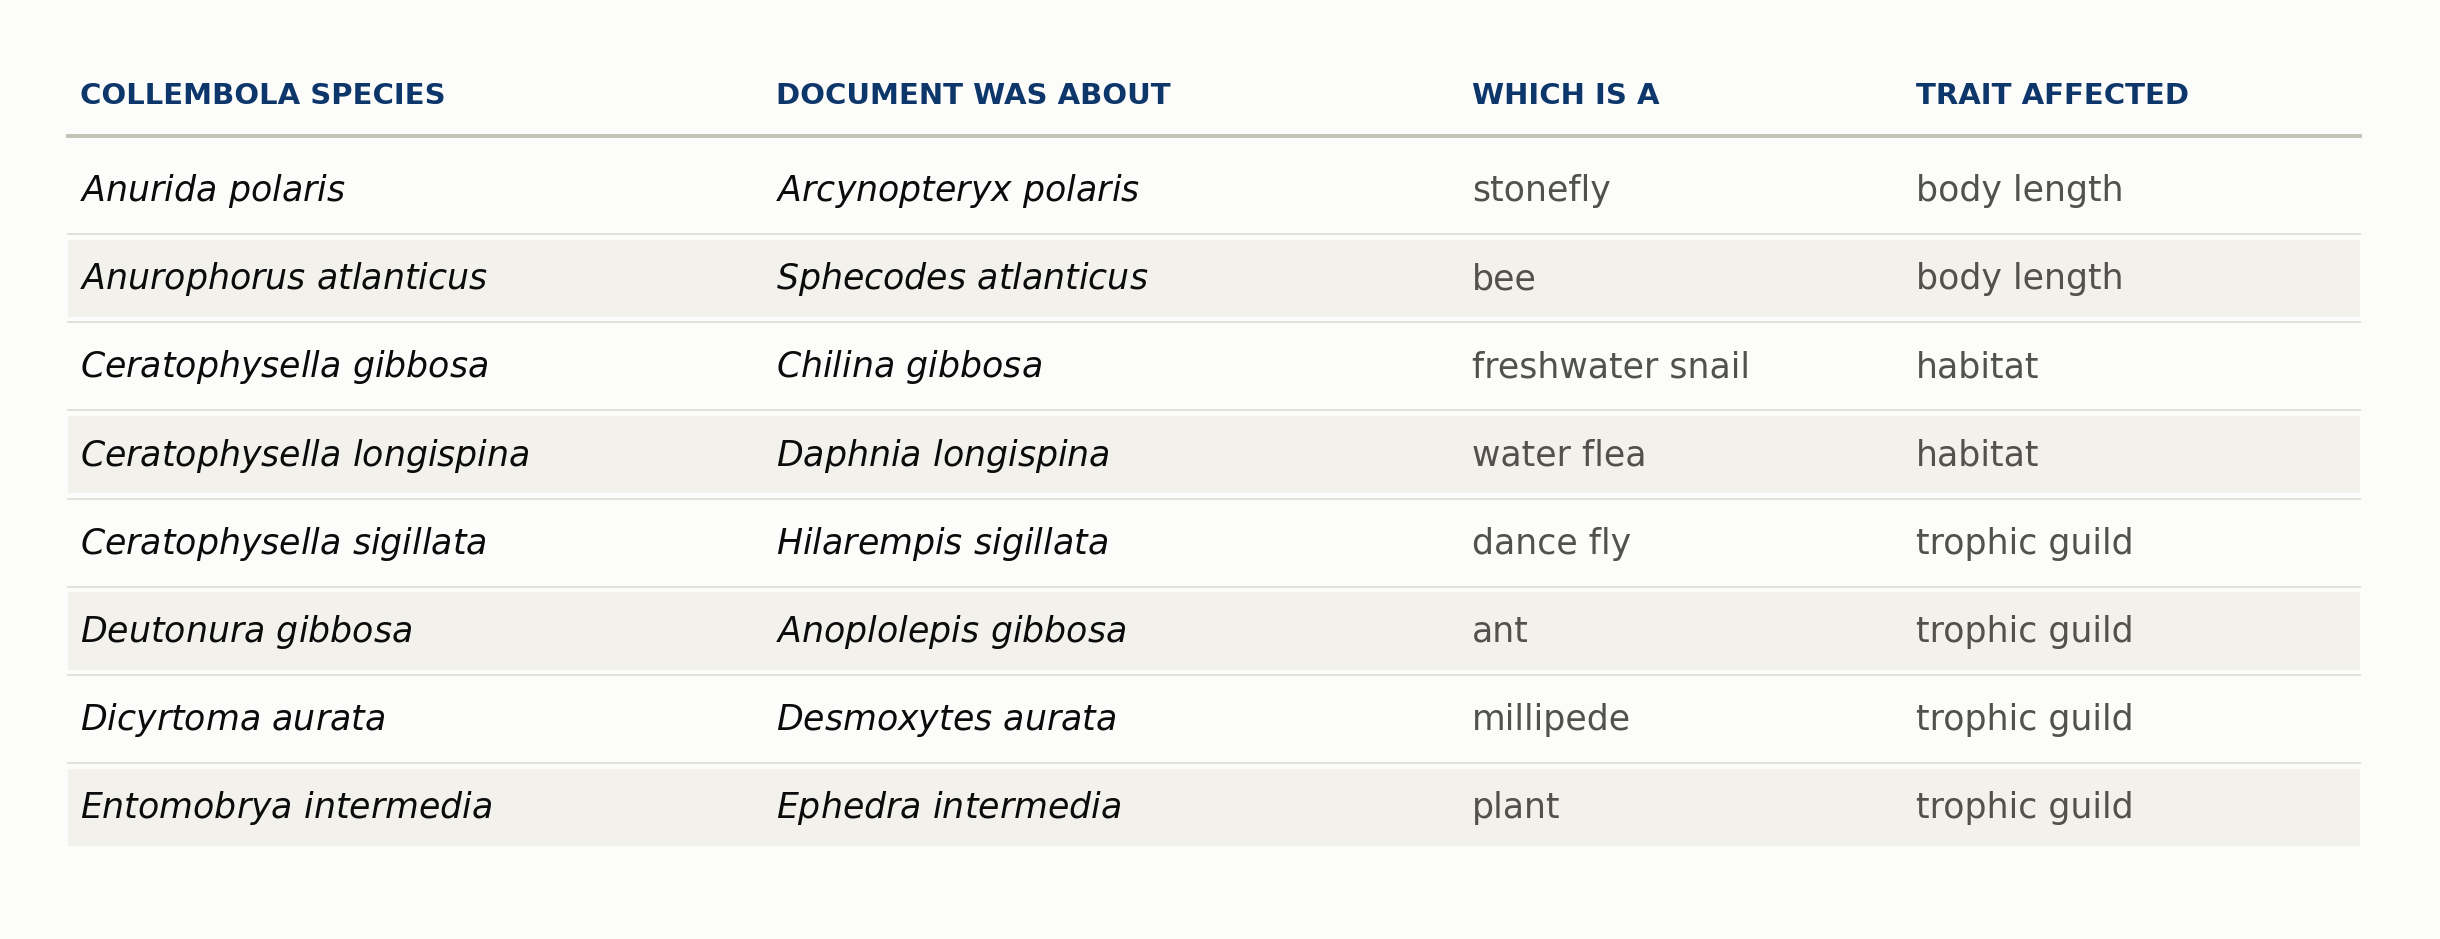
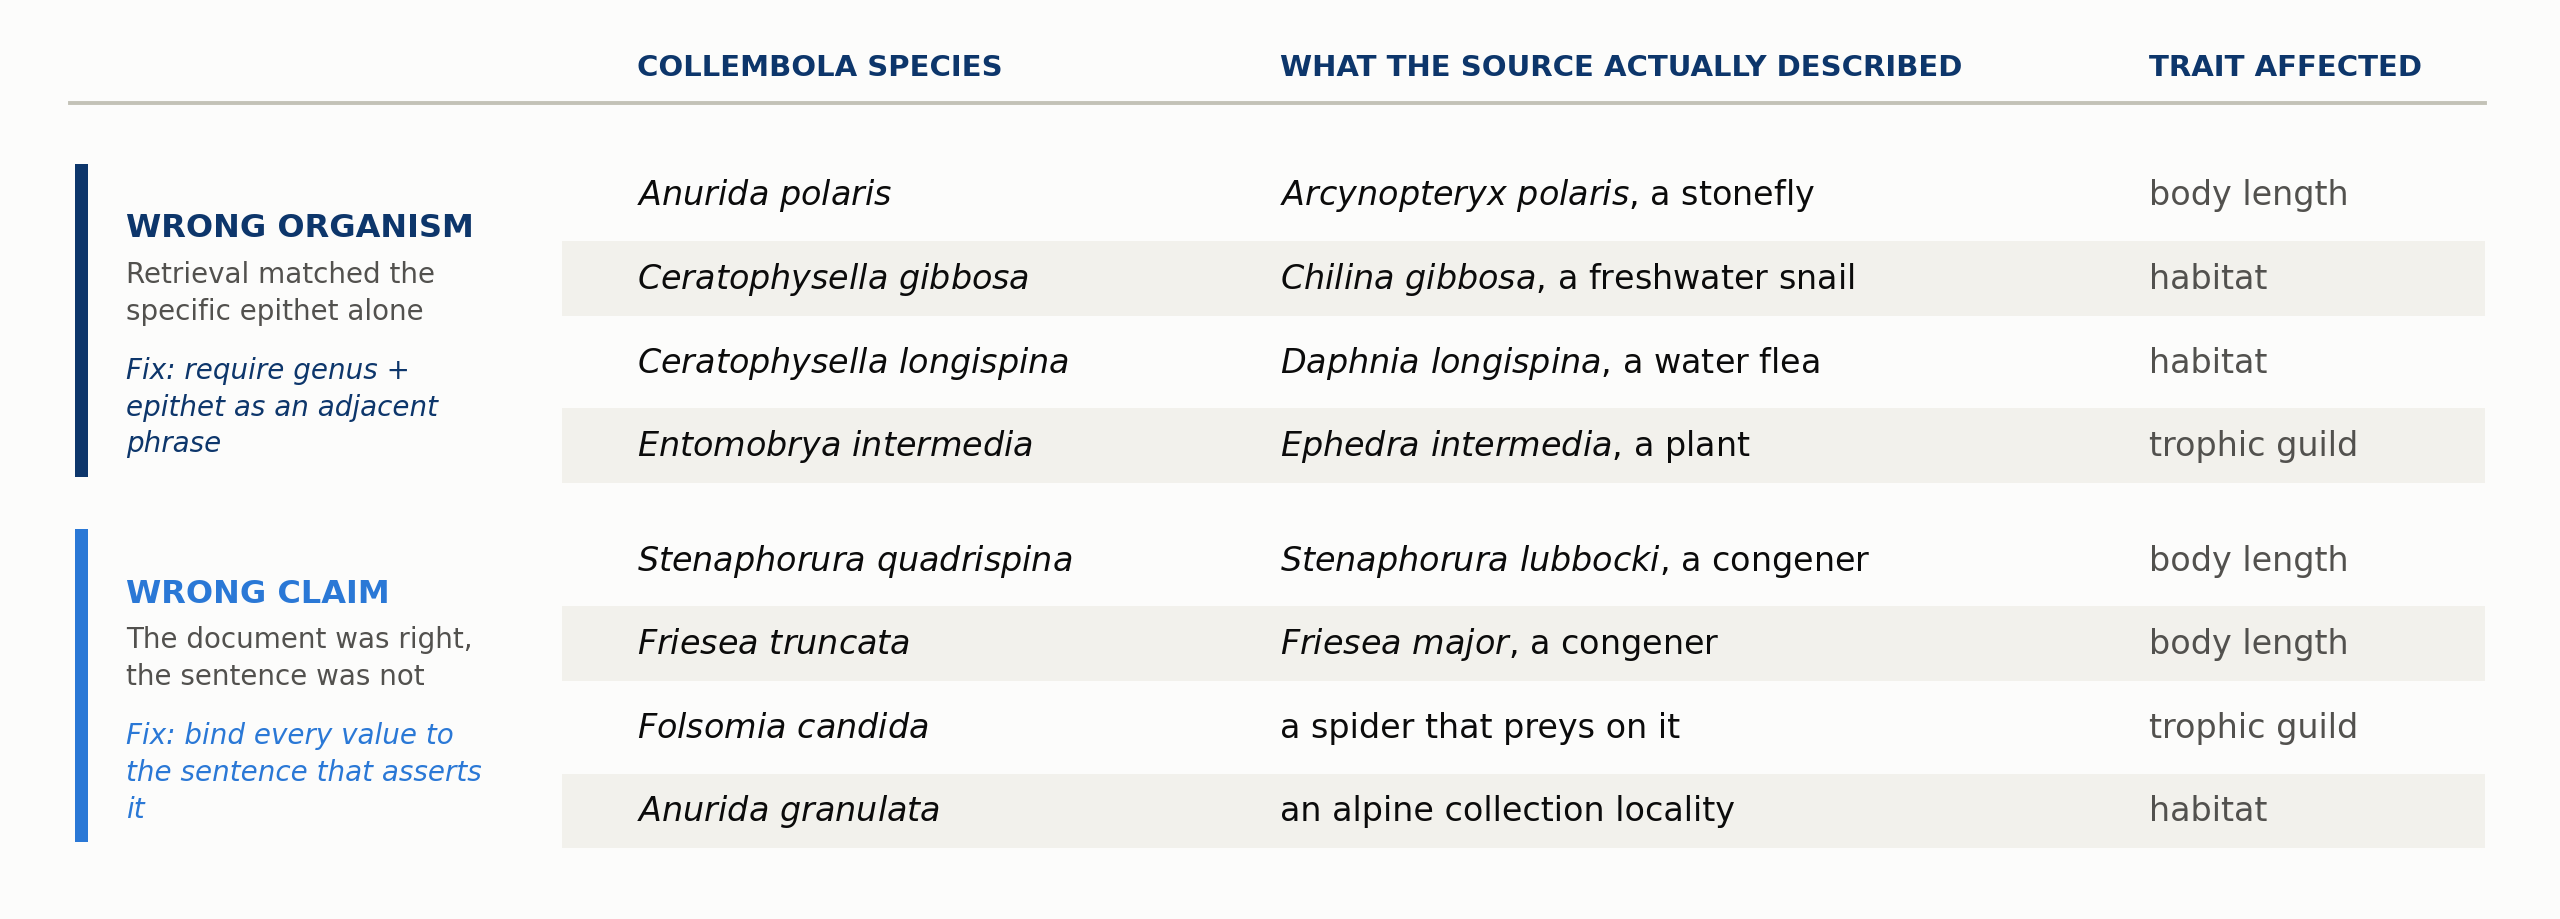
Group the failure-case table by failure mode
The flat table lost the distinction between retrieval returning the wrong
organism and extraction reading the wrong sentence, which is the structure the
slide rests on. Rows are now grouped under each failure mode with its cause and
fix on the left.

diff --git a/scripts/make_epithet_table.py b/scripts/make_epithet_table.py
@@ -1,45 +1,64 @@
-"""Table: epithet-only retrieval pulled unrelated organisms. Cases reported by the reviewers."""
+"""Grouped table: both failure modes, with the cases the reviewers reported."""
 import matplotlib; matplotlib.use("Agg")
 import matplotlib.pyplot as plt
+import textwrap
 
 SURFACE="#fcfcfb"; INK="#0b0b0b"; SEC="#52514e"; HEAD="#0d366b"
-RULE="#c3c2b7"; HAIR="#e1e0d9"; BAND="#f2f1ec"
+CAT1="#0d366b"; CAT2="#2a78d6"; RULE="#c3c2b7"; HAIR="#e1e0d9"; BAND="#f2f1ec"
 plt.rcParams.update({"font.family":"DejaVu Sans"})
 
 def it(s): return r"$\it{" + s.replace(" ", r"\ ") + "}$"
 
-ROWS = [
-    ("Anurida polaris",          "Arcynopteryx polaris",  "stonefly",         "body length"),
-    ("Anurophorus atlanticus",   "Sphecodes atlanticus",  "bee",              "body length"),
-    ("Ceratophysella gibbosa",   "Chilina gibbosa",       "freshwater snail", "habitat"),
-    ("Ceratophysella longispina","Daphnia longispina",    "water flea",       "habitat"),
-    ("Ceratophysella sigillata", "Hilarempis sigillata",  "dance fly",        "trophic guild"),
-    ("Deutonura gibbosa",        "Anoplolepis gibbosa",   "ant",              "trophic guild"),
-    ("Dicyrtoma aurata",         "Desmoxytes aurata",     "millipede",        "trophic guild"),
-    ("Entomobrya intermedia",    "Ephedra intermedia",    "plant",            "trophic guild"),
+GROUPS = [
+    dict(label="WRONG ORGANISM", color=CAT1,
+         cause="Retrieval matched the specific epithet alone",
+         fix="Fix: require genus + epithet as an adjacent phrase",
+         rows=[("Anurida polaris",          f"{it('Arcynopteryx polaris')}, a stonefly",        "body length"),
+               ("Ceratophysella gibbosa",   f"{it('Chilina gibbosa')}, a freshwater snail",     "habitat"),
+               ("Ceratophysella longispina",f"{it('Daphnia longispina')}, a water flea",        "habitat"),
+               ("Entomobrya intermedia",    f"{it('Ephedra intermedia')}, a plant",             "trophic guild")]),
+    dict(label="WRONG CLAIM", color=CAT2,
+         cause="The document was right, the sentence was not",
+         fix="Fix: bind every value to the sentence that asserts it",
+         rows=[("Stenaphorura quadrispina", f"{it('Stenaphorura lubbocki')}, a congener",        "body length"),
+               ("Friesea truncata",         f"{it('Friesea major')}, a congener",                "body length"),
+               ("Folsomia candida",         "a spider that preys on it",                        "trophic guild"),
+               ("Anurida granulata",        "an alpine collection locality",                    "habitat")]),
 ]
-HEADERS = ["COLLEMBOLA SPECIES", "DOCUMENT WAS ABOUT", "WHICH IS A", "TRAIT AFFECTED"]
-X = [0.025, 0.315, 0.605, 0.790]
+X = [0.025, 0.245, 0.500, 0.845]
+HEADERS = ["", "COLLEMBOLA SPECIES", "WHAT THE SOURCE ACTUALLY DESCRIBED", "TRAIT AFFECTED"]
 
-fig = plt.figure(figsize=(12, 4.5), dpi=200, facecolor=SURFACE)
+fig = plt.figure(figsize=(12.6, 4.4), dpi=200, facecolor=SURFACE)
 ax = fig.add_axes([0,0,1,1]); ax.set_xlim(0,1); ax.set_ylim(0,1); ax.axis("off")
 
-y_head, dy = 0.915, 0.098
 for x, h in zip(X, HEADERS):
-    ax.text(x, y_head, h, fontsize=10.5, weight="bold", color=HEAD, va="center")
-ax.plot([0.02, 0.975], [y_head-0.045]*2, color=RULE, lw=1.4)
+    if h: ax.text(x, 0.945, h, fontsize=10.5, weight="bold", color=HEAD, va="center")
+ax.plot([0.02, 0.978], [0.905]*2, color=RULE, lw=1.4)
 
-for i, (target, got, group, trait) in enumerate(ROWS):
-    y = y_head - 0.105 - i*dy
-    if i % 2 == 1:
-        ax.add_patch(plt.Rectangle((0.02, y-dy/2+0.006), 0.955, dy-0.012,
-                                   facecolor=BAND, edgecolor="none"))
-    ax.text(X[0], y, it(target), fontsize=12.5, color=INK, va="center")
-    ax.text(X[1], y, it(got),    fontsize=12.5, color=INK, va="center")
-    ax.text(X[2], y, group,      fontsize=12.5, color=SEC,  va="center")
-    ax.text(X[3], y, trait,      fontsize=12.5, color=SEC,  va="center")
-    if i < len(ROWS)-1:
-        ax.plot([0.02, 0.975], [y-dy/2]*2, color=HAIR, lw=0.7)
+dy, y = 0.095, 0.800
+i = 0
+for g in GROUPS:
+    top = y + dy/2
+    for target, described, trait in g["rows"]:
+        if i % 2 == 1:
+            ax.add_patch(plt.Rectangle((0.215, y-dy/2+0.005), 0.763, dy-0.010,
+                                       facecolor=BAND, edgecolor="none"))
+        ax.text(X[1], y, it(target),  fontsize=12, color=INK, va="center")
+        ax.text(X[2], y, described,   fontsize=12, color=INK, va="center")
+        ax.text(X[3], y, trait,       fontsize=12, color=SEC, va="center")
+        y -= dy; i += 1
+    bottom = y + dy/2
+    # category rail + label, spanning the group
+    ax.add_patch(plt.Rectangle((0.022, bottom+0.012), 0.005, top-bottom-0.024,
+                               facecolor=g["color"], edgecolor="none"))
+    mid = (top + bottom) / 2
+    ax.text(0.042, mid+0.105, g["label"], fontsize=11.5, weight="bold",
+            color=g["color"], va="center")
+    ax.text(0.042, mid+0.032, "\n".join(textwrap.wrap(g["cause"], 26)),
+            fontsize=10, color=SEC, va="center", linespacing=1.4)
+    ax.text(0.042, mid-0.098, "\n".join(textwrap.wrap(g["fix"], 26)),
+            fontsize=10, color=g["color"], va="center", linespacing=1.4, style="italic")
+    y -= 0.035   # gap between groups
 
 out="/home/egaillac/collembola-trait-mining/results/figures/fig_epithet_table.png"
 fig.savefig(out, facecolor=SURFACE, bbox_inches="tight")
